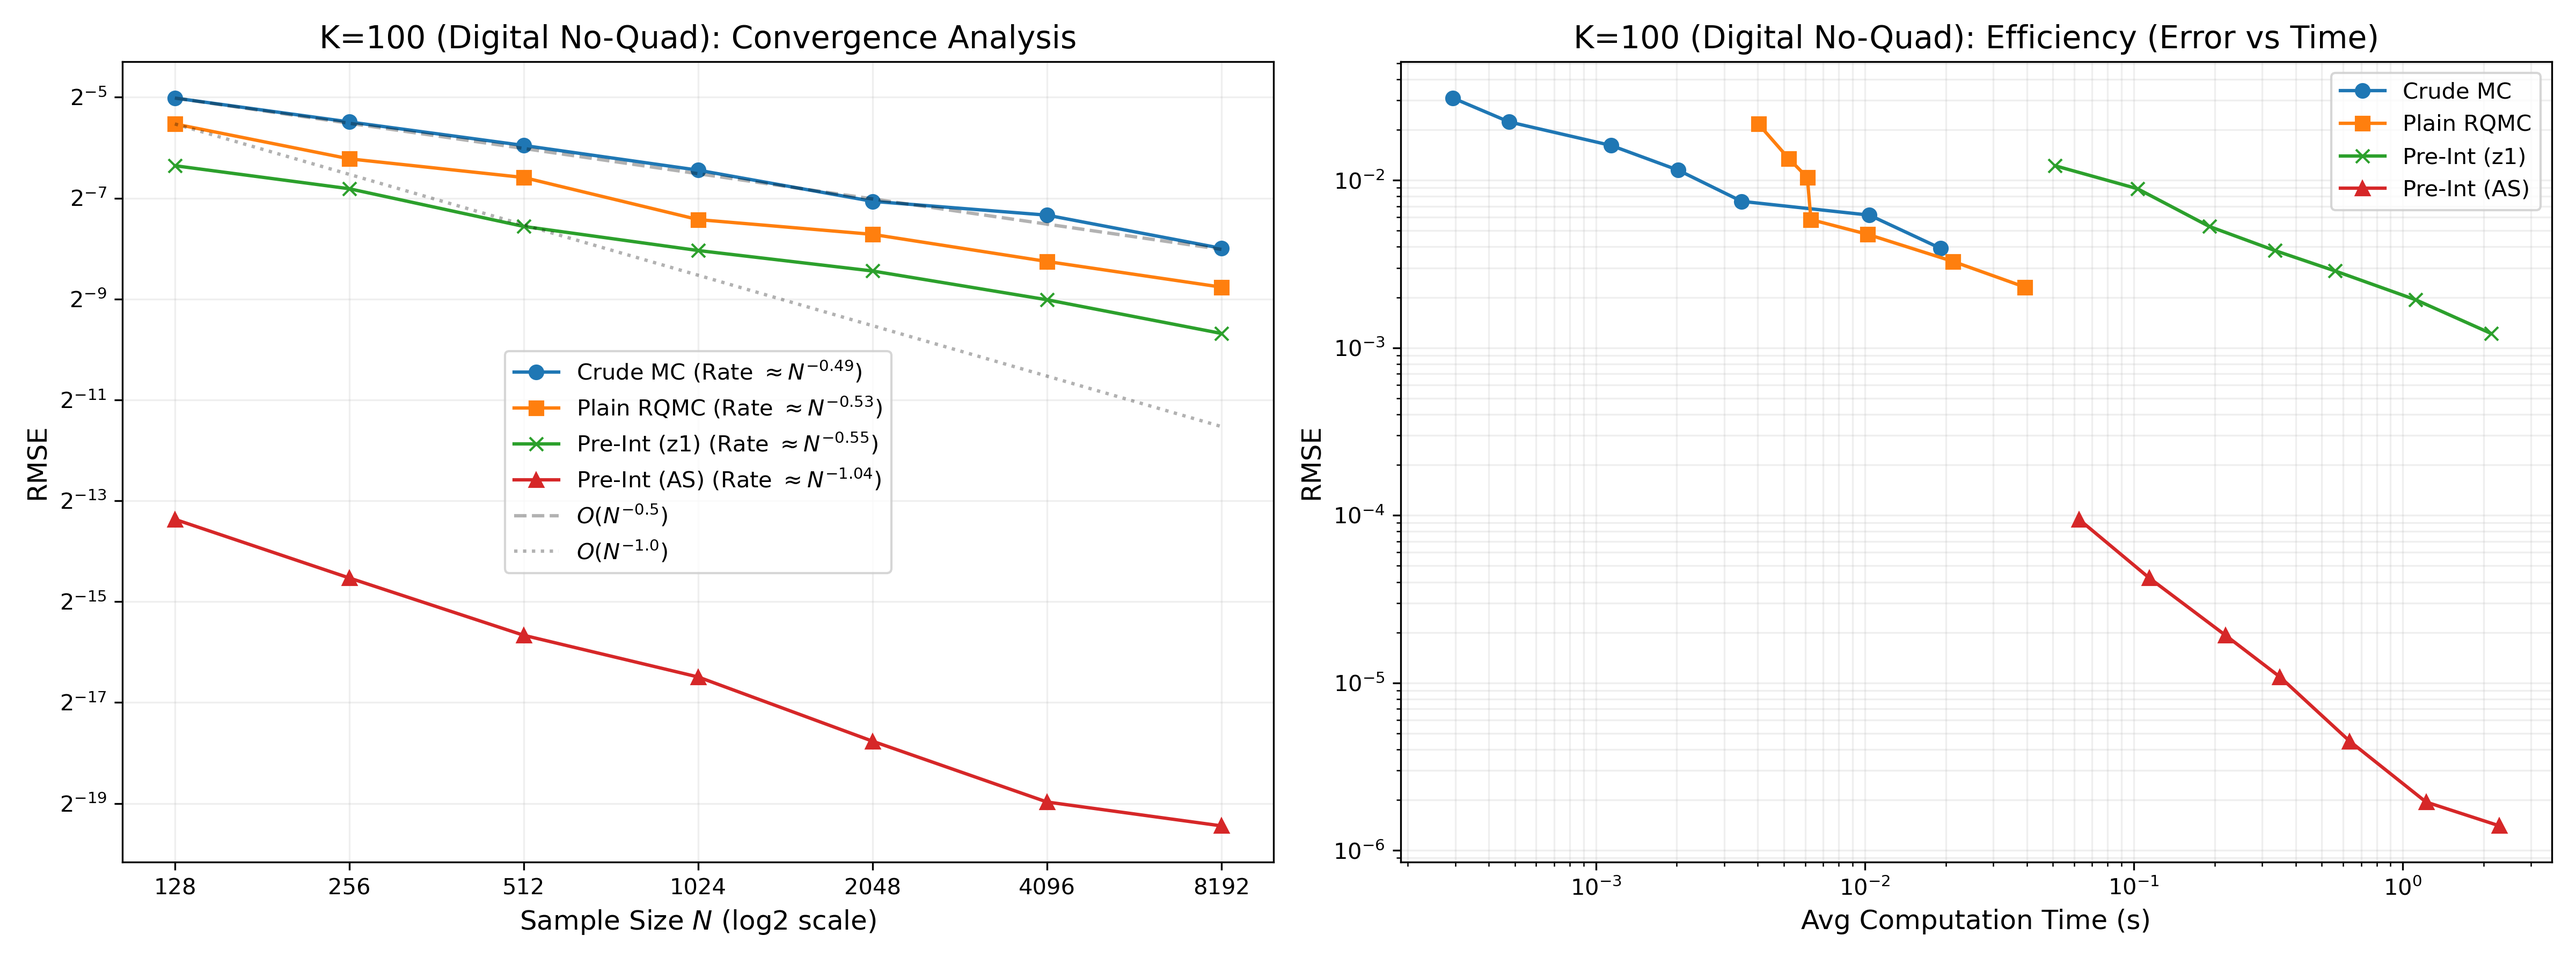
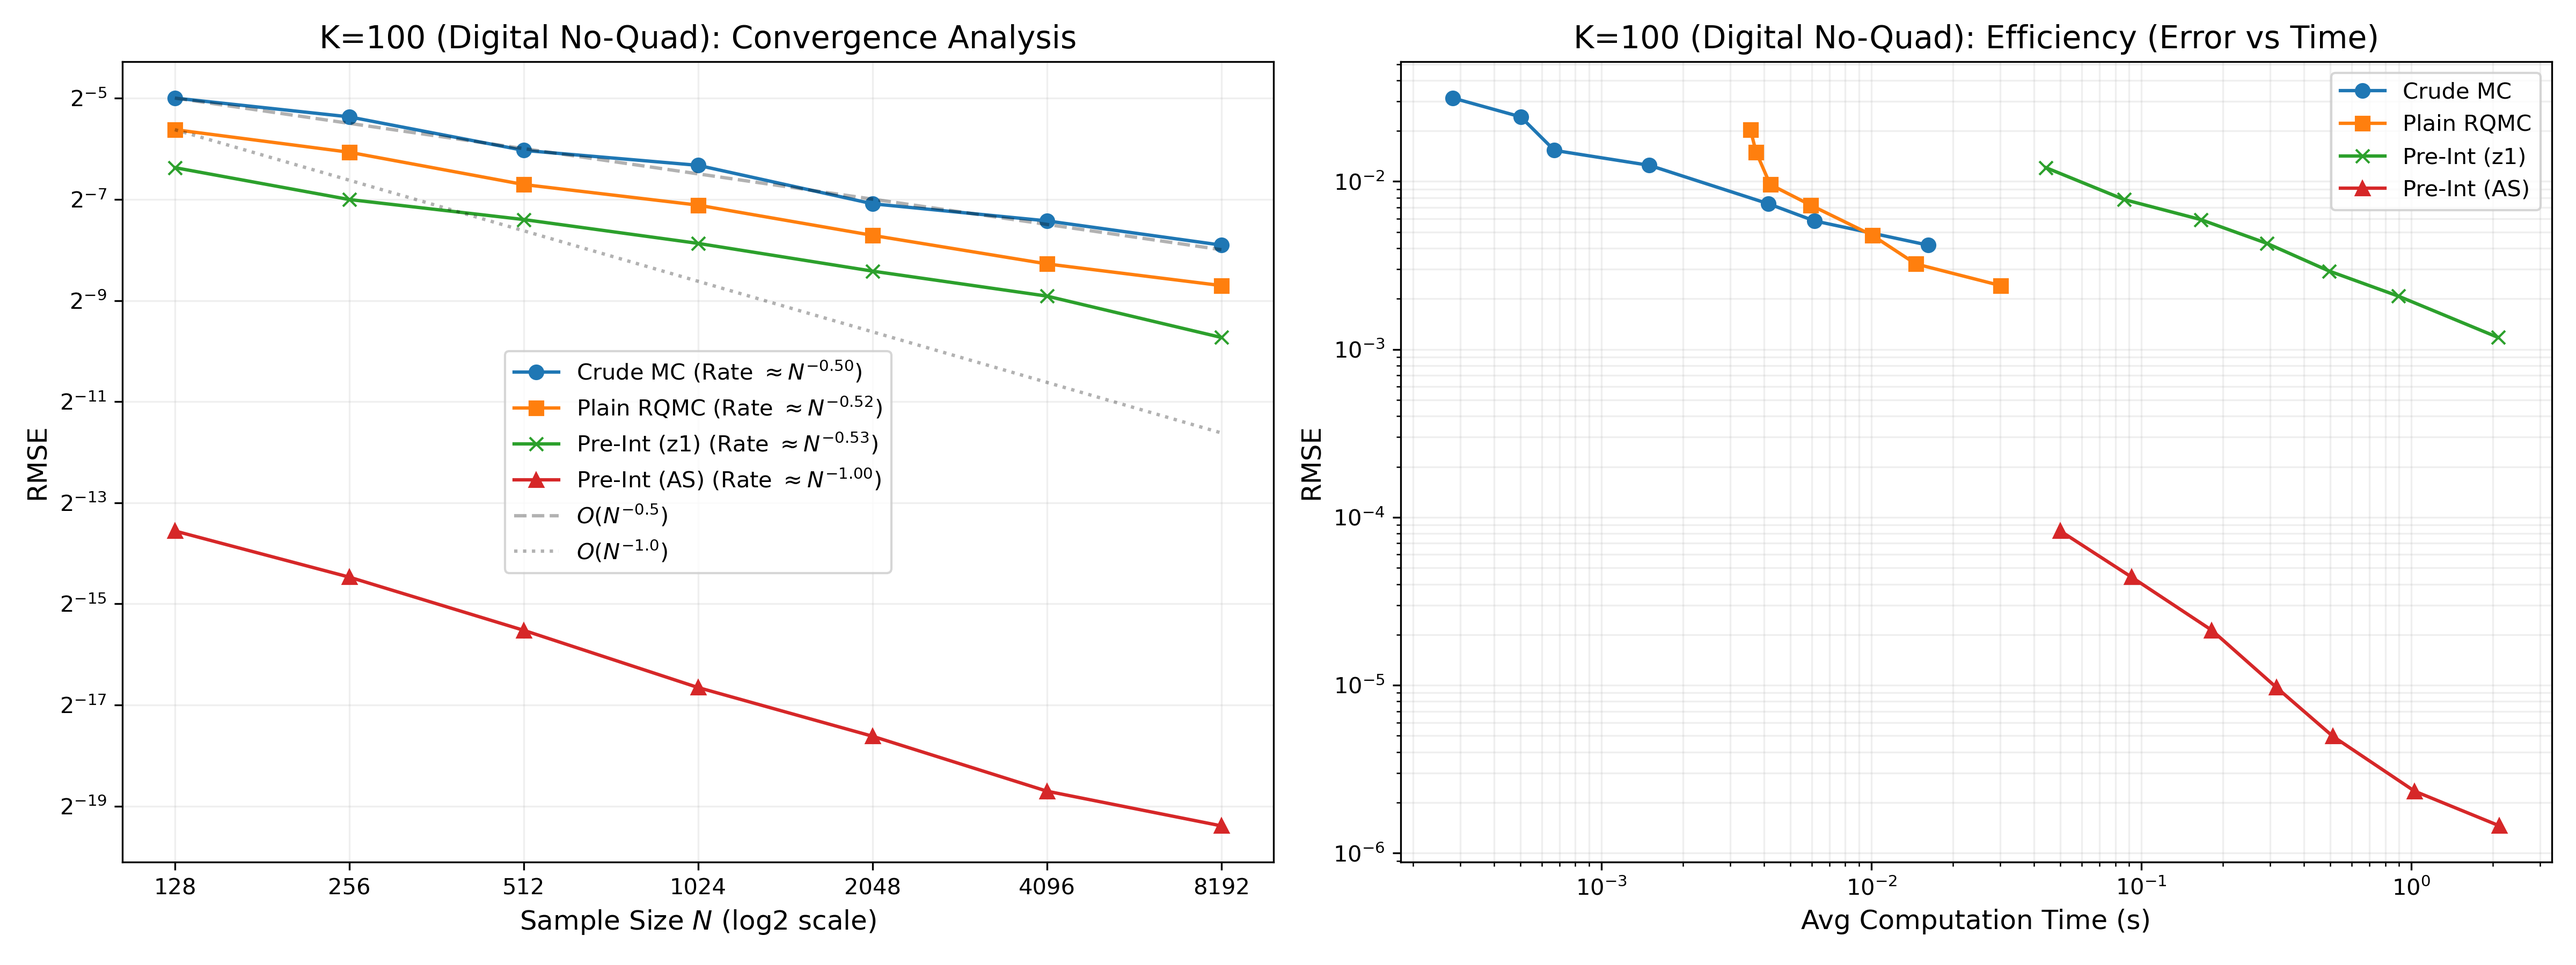
Fixed the random seeds

diff --git a/arithmetic_asian_option.py b/arithmetic_asian_option.py
@@ -9,6 +9,8 @@ import matplotlib.pyplot as plt
 import matplotlib.ticker as mticker
 from tqdm import tqdm
 
+np.random.seed(42)
+
 # ==========================================
 # 0. Setup and Configuration
 # ==========================================

diff --git a/digita_asian_option_without_quadrature.py b/digita_asian_option_without_quadrature.py
@@ -9,6 +9,8 @@ import matplotlib.pyplot as plt
 import matplotlib.ticker as mticker
 from tqdm import tqdm
 
+np.random.seed(42)
+
 # ==========================================
 # 0. Setup and Configuration
 # ==========================================
